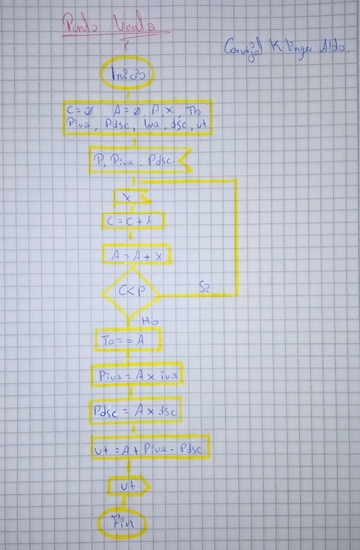
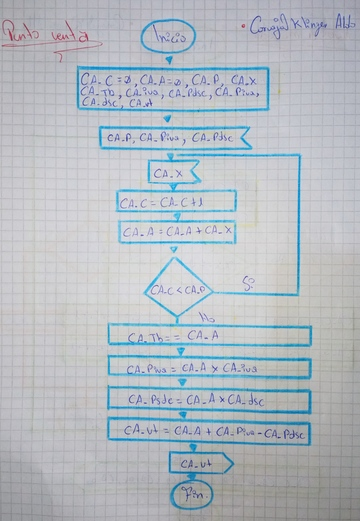
Actualizacion de Punto venta B2-C2

diff --git a/AldoCarvajalk/ACTIVIDAD-B2-C2/AldoCarvajalk-PuntoVenta.cpp b/AldoCarvajalk/ACTIVIDAD-B2-C2/AldoCarvajalk-PuntoVenta.cpp
@@ -1,29 +1,42 @@
+//=======Nombre del programa: Punto de venta
+//====Nombre del archivo: AldoCarvajalk-Compara.cpp
+//====Autor: Carvajal Aldo
+//====Fecha de elaboracion: 03-05-2022
+//====Fecha de ultima actualizacion: 19-05-2022
+
 #include<iostream>
 using namespace std;
 int main()
 {
-	int c=0, P;
-	float A=0,x,Tb,Piva,Pdsc,iva=0.12,dsc=0.30,vt;
+	int CA_c=0, CA_P;
+	float CA_A=0,CA_x,CA_Tb,CA_Piva,CA_Pdsc,CA_iva=0.12,CA_dsc=0.30,CA_vt;
 	cout<<"Ingrese la cantidad de productos: ";
-	cin>>P;
+	cin>>CA_P;
 	do{
 		cout<<"Ingrese el valor de los productos: ";
-		cin>>x;
-		c=c+1;
-		A=A+x;
-		Piva=A*iva;
-		cout<<"El valor del iva de la compra es de: $"<<Piva<<endl;
-		Pdsc=A*dsc;
-		cout<<"El valor del descuento de su compra es de:$"<<Pdsc<<endl;
-		Tb=Piva+Pdsc;
-	}while(c<P);
-	if(Tb==A){
-		cout<<"Su compra aplica para un descuento: "<<Tb<<endl;
-	iva=Tb*Piva/100;
-	dsc=Tb*Pdsc/100;
+		cin>>CA_x;
+		CA_c=CA_c+1;
+		CA_A=CA_A+CA_x;
+		CA_Piva=CA_A*CA_iva;
+		cout<<"El valor del iva de la compra es de: $"<<CA_Piva<<endl;
+		CA_Pdsc=CA_A*CA_dsc;
+		cout<<"El valor del descuento de su compra es de:$"<<CA_Pdsc<<endl;
+		CA_Tb=CA_Piva+CA_Pdsc;
+	}while(CA_c<CA_P);
+	if(CA_Tb==CA_A){
+		cout<<"Su compra aplica para un descuento: "<<CA_Tb<<endl;
+	CA_iva=CA_Tb*CA_Piva/100;
+	CA_dsc=CA_Tb*CA_Pdsc/100;
 }else{
-	vt=A+Piva-Pdsc;
-	cout<<"El valor total es de:$ "<<vt<<endl;
+	CA_vt=CA_A+CA_Piva-CA_Pdsc;
+
+//=======Nombre del programa: Punto de venta
+//====Nombre del archivo: AldoCarvajalk-Compara.cpp
+//====Autor: Carvajal Aldo
+//====Fecha de elaboracion: 03-05-2022
+//====Fecha de ultima actualizacion: 19-05-2022
+
+	cout<<"El valor total es de:$ "<<CA_vt<<endl;
 }
 return(0);
 }
